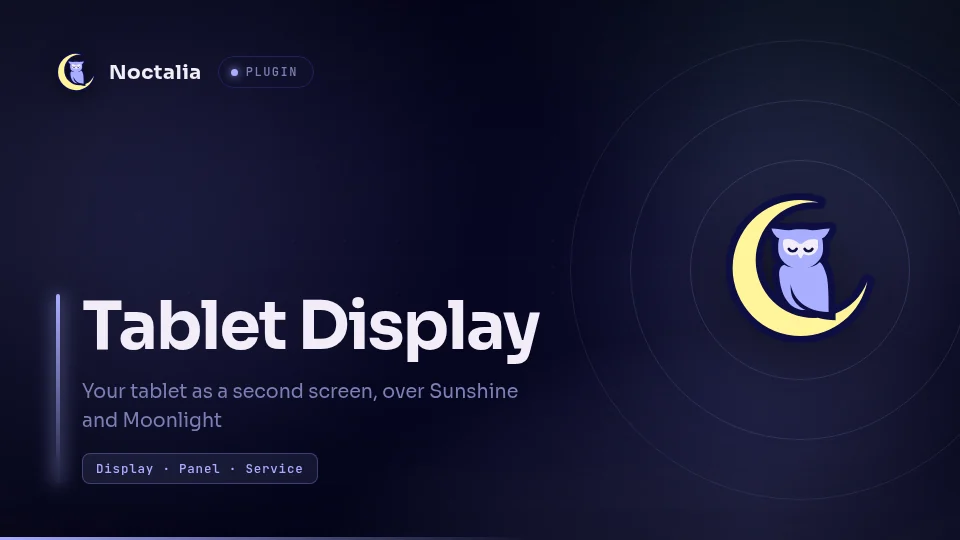
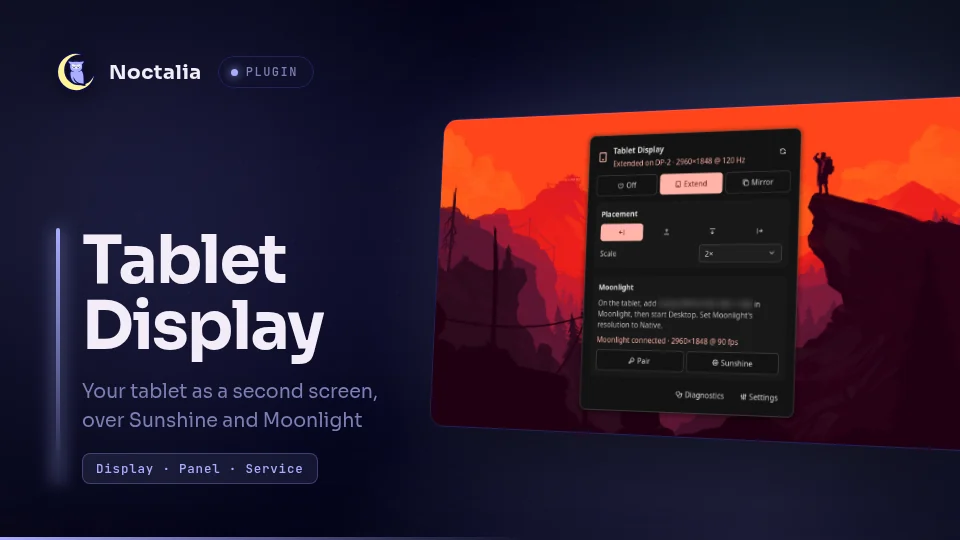
Thumbnail and README screenshot of the panel
Rendered with Noctalia's thumbnail generator from a screenshot of the
panel (Extend on, Moonlight connected); the hostname and IP are blurred.

diff --git a/tablet-display/README.md b/tablet-display/README.md
@@ -11,6 +11,8 @@ encoding, up to 120 fps and low delay, without Miracast's 1080p limit.
 - The display matches your tablet's resolution, from a device preset or
   automatically from what Moonlight asks for.
 
+![The Tablet Display panel, extended and with Moonlight connected](screenshots/panel.webp)
+
 Tested with a Samsung Galaxy Tab S9 Ultra and a Framework Laptop 16 (Radeon
 780M) on niri 26.04, Hyprland 0.57, sway 1.12 and mango 0.18.5, with Sunshine
 2026.1109 and Noctalia 5.4.1. iPads, other tablets and other GPUs should work
